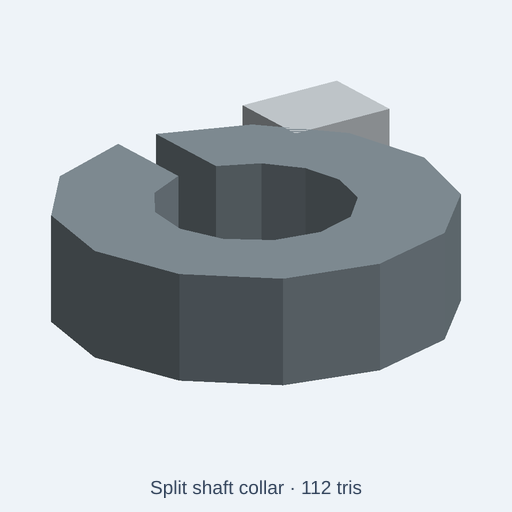
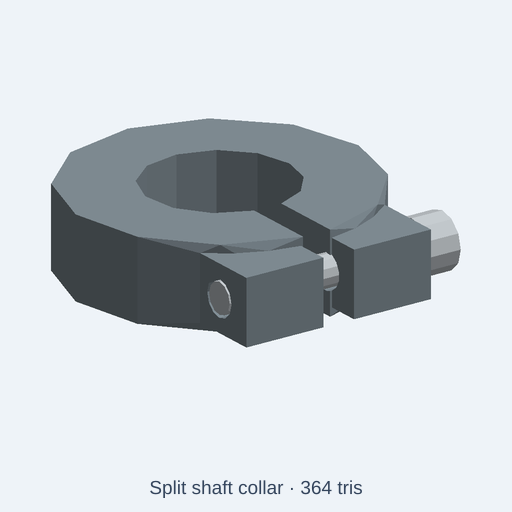
fix(catalog): add real clamping hardware to split shaft collar

Changed region(s): [[0.0938, 0.1562, 0.9062, 0.75], [0.2812, 0.9375, 0.7188, 0.9688]]

diff --git a/tests/integration/catalog/splitShaftCollarFidelity.test.ts b/tests/integration/catalog/splitShaftCollarFidelity.test.ts
@@ -1,0 +1,87 @@
+// SPDX-License-Identifier: MIT
+// Source-level split-collar sketches can compile while omitting the actual
+// clamping hardware. Prove named GLB bodies and real bore/notch surfaces.
+import { beforeAll, describe, expect, it } from 'vitest';
+import { resolve } from 'node:path';
+import { readFileSync } from 'node:fs';
+import { initOcct } from '../../../src/kernel/backends/occt/occtBackend';
+import { buildCatalogAssetWithGlb } from '../../../src/agent/catalog/buildCatalog';
+import { runAndExport } from '../../../src/agent/script-runtime/export';
+import { glbTriangles, type SoftTriangle } from '../../../scripts/lib/glbSoftwareRender';
+
+const root = resolve(import.meta.dirname, '../../..');
+const file = resolve(root, 'catalog/kits/standard-components/split-shaft-collar.kcad.ts');
+
+type Gltf = {
+  nodes: Array<{ name?: string; mesh?: number }>;
+  meshes: Array<{ primitives: Array<{ attributes: { POSITION: number } }> }>;
+  accessors: Array<{ min?: number[]; max?: number[] }>;
+};
+function nodes(glb: Uint8Array | Buffer) {
+  const b = Buffer.from(glb);
+  expect(b.toString('ascii', 0, 4)).toBe('glTF');
+  const data = JSON.parse(b.subarray(20, 20 + b.readUInt32LE(12)).toString('utf8')) as Gltf;
+  const parts = new Map<string, { min: number[]; max: number[] }>();
+  for (const n of data.nodes) {
+    if (!n.name || n.mesh === undefined) continue;
+    const accessor = data.accessors[data.meshes[n.mesh]!.primitives[0]!.attributes.POSITION]!;
+    if (accessor.min && accessor.max) parts.set(n.name, { min: accessor.min, max: accessor.max });
+  }
+  return parts;
+}
+// A vertical ray in the GLB's metre-scaled Y-up software-render coordinates.
+// Test occupied vs empty through-passages without relying on preview colors.
+function hitVertical(tris: SoftTriangle[], px: number, pz: number) {
+  for (const t of tris) {
+    const [[a,c],[b,d],[e,f]] = t.v.map(v => [v[0], v[2]]);
+    const det = (d-f)*(a-e)+(e-b)*(c-f);
+    if (Math.abs(det) < 1e-11) continue;
+    const w1 = ((d-f)*(px-e)+(e-b)*(pz-f))/det;
+    const w2 = ((f-c)*(px-e)+(a-e)*(pz-f))/det;
+    const w3 = 1-w1-w2;
+    if (w1 >= -1e-6 && w2 >= -1e-6 && w3 >= -1e-6) return true;
+  }
+  return false;
+}
+function assertFunctionalSilhouette(glb: Uint8Array | Buffer, scale: number, tris: SoftTriangle[]) {
+  const parts = nodes(glb);
+  expect([...parts.keys()].sort()).toEqual(['clamp-screw', 'split-collar-body']);
+  const screw = parts.get('clamp-screw')!;
+  // A crosswise fastener bridges the split; not just a radial decorative boss.
+  expect(screw.min[0]).toBeCloseTo(-12*scale, 3);
+  expect(screw.max[0]).toBeCloseTo(17*scale, 3);
+  expect((screw.min[1]+screw.max[1])/2).toBeCloseTo(-17*scale, 3);
+  expect((screw.min[2]+screw.max[2])/2).toBeCloseTo(5*scale, 3);
+  // No body in the 18 mm nominal shaft bore or in its radial relief slot.
+  expect(hitVertical(tris, 0, 0)).toBe(false);
+  expect(hitVertical(tris, 0, 0.011*scale)).toBe(false);
+  // Solid material exists on the opposite rim and on the right wall.
+  expect(hitVertical(tris, 0.015*scale, 0)).toBe(true);
+  expect(hitVertical(tris, 0, -0.015*scale)).toBe(true);
+}
+
+beforeAll(async () => { await initOcct(); });
+describe('CC0 split shaft collar visual fidelity', () => {
+  it('has an open bore, split radial notch, two clamp lugs and a separate screw body', async () => {
+    const { asset, glb } = await buildCatalogAssetWithGlb(root, 'catalog/kits/standard-components/split-shaft-collar.kcad.ts');
+    expect(asset.category).toBe('attachment');
+    expect(asset.description).toMatch(/illustrative.*low-poly/i);
+    expect(asset.description).toMatch(/not vendor manufacturing CAD/i);
+    expect(asset.stats.minUpM).toBeCloseTo(0,6);
+    expect(asset.stats.triangles).toBeLessThanOrEqual(asset.triangleBudget);
+    const triangles = await glbTriangles(glb);
+    expect(triangles.length).toBeGreaterThan(300); // The old 112-triangle prop omitted clamp parts.
+    assertFunctionalSilhouette(glb, 1, triangles);
+  }, 30000);
+  it('retains the bore, split and screw over all size presets', async () => {
+    const source = readFileSync(file, 'utf8');
+    for (const [name, scale] of [['compact',0.75], ['large',1.25]] as const) {
+      const code = source.replace("param('size', 'standard'", `param('size', '${name}'`);
+      expect(code).not.toBe(source);
+      const out = await runAndExport({code,fileName:'split-shaft-collar.kcad.ts',scriptDir:resolve(file,'..'),
+        format:'glb',options:{format:'glb',style:'lowpoly',lowpoly:{maxTriangles:400}}});
+      expect(out.diagnostics.filter(d=>d.severity==='error')).toEqual([]);
+      assertFunctionalSilhouette(out.bytes, scale, await glbTriangles(out.bytes));
+    }
+  }, 30000);
+});

diff --git a/catalog/kits/standard-components/split-shaft-collar.kcad.ts b/catalog/kits/standard-components/split-shaft-collar.kcad.ts
@@ -1,15 +1,18 @@
-// Distinctive geometry: Split clamp collar with a through bore and a raised clamp lug
+// SPDX-License-Identifier: CC0-1.0
+// Illustrative split clamp shaft collar: a real radial saw gap, two opposed
+// clamp lugs, an axial shaft bore, and a separate crosswise clamping screw.
+// Low-poly scene prop only; not vendor CAD or proof of grip torque/shaft fit.
 meta({
   name: 'split-shaft-collar',
   license: 'CC0-1.0',
   title: 'Split shaft collar',
-  description: 'Split clamp collar with a through bore and a raised clamp lug Knobs: model size, steel, zinc-plated steel.',
-  tags: ['shaft collar', 'split collar', 'clamp', 'rotating shaft'],
+  description: 'Illustrative CC0 low-poly split shaft collar with 18 mm through bore, radial slot, two opposed clamp lugs, a crosswise clamp-screw clearance hole and a distinct simplified clamp screw. Three uniform size choices; not vendor manufacturing CAD or a load-rated shaft connection. Color controls: steel and zinc-plated steel.',
+  tags: ['shaft collar', 'split collar', 'clamp', 'rotating shaft', 'low poly', 'scene prop', 'CC0'],
   kit: 'standard-components',
   category: 'attachment',
   origin: 'base',
   compat: ['mechanical', 'industrial', 'workshop', 'assembly'],
-  triangleBudget: 300,
+  triangleBudget: 400,
 });
 
 const size = param('size', 'standard', { choices: ['compact', 'standard', 'large'], label: 'Model size' });
@@ -18,14 +21,27 @@ const zinc = param('zinc', '#cbd1d5', { label: 'Zinc-plated steel' });
 presets({
   dark: { steel: '#3e484e', zinc: '#929da3' },
   brass: { steel: '#646f75', zinc: '#c29a5c' },
-  weathered: { steel: '#665b4d', zinc: '#a19682' }
+  weathered: { steel: '#665b4d', zinc: '#a19682' },
 });
-
 const s = size.value === 'compact' ? 0.75 : size.value === 'large' ? 1.25 : 1;
-const block = (x: number, y: number, z: number, w: number, d: number, h: number) => box(w, d, h).translate(x, y, z);
+const block = (x: number, y: number, z: number, w: number, d: number, h: number) =>
+  box(w * s, d * s, h * s).translate(x * s, y * s, z * s);
+const acrossX = (start: number, length: number, radius: number) =>
+  cylinder(length * s, radius * s, 8).rotateY(90).translate(start * s, -17 * s, 5 * s);
+
+// The slot enters the shaft bore from the -Y rim. Both lugs remain attached to
+// the ring but are separated across the slot so the screw can close the gap.
+let collar = cylinder(10 * s, 18 * s, 20)
+  .subtract(cylinder(12 * s, 9 * s, 20).translate(0, 0, -s))
+  .subtract(block(-1.75, -21, -1, 3.5, 13, 12));
+collar = collar.union(block(-12, -22, 1, 10, 9, 8));
+collar = collar.union(block(2, -22, 1, 10, 9, 8));
+// Drill both lugs along X. Clearance remains around the simplified screw.
+collar = collar.subtract(acrossX(-14, 28, 2.25));
+
+const fastener = acrossX(-12, 25, 1.9)
+  .union(acrossX(13, 4, 3.4));
 const a = assembly('split-shaft-collar');
-let collar=cylinder(10*s,18*s,16).subtract(cylinder(12*s,9*s,16).translate(0,0,-s));
-collar=collar.subtract(block(-2*s,8*s,-s,4*s,12*s,12*s));
-a.part('collar',collar.color(steel));
-a.part('lug',block(12*s,11*s,2*s,10*s,8*s,8*s).color(zinc));
+a.part('split-collar-body', collar.color(steel));
+a.part('clamp-screw', fastener.color(zinc));
 return a.model();
